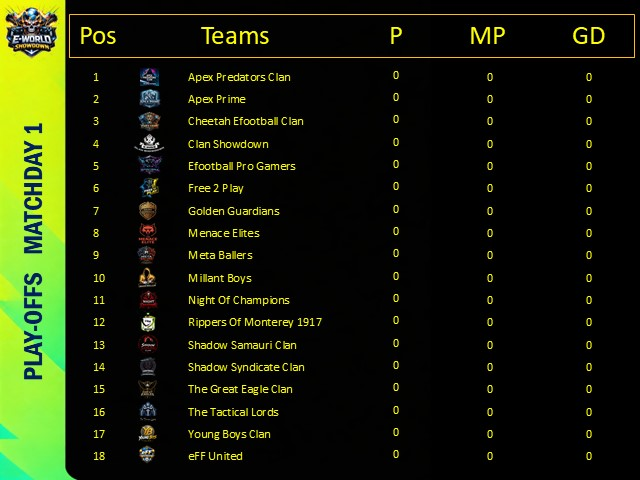
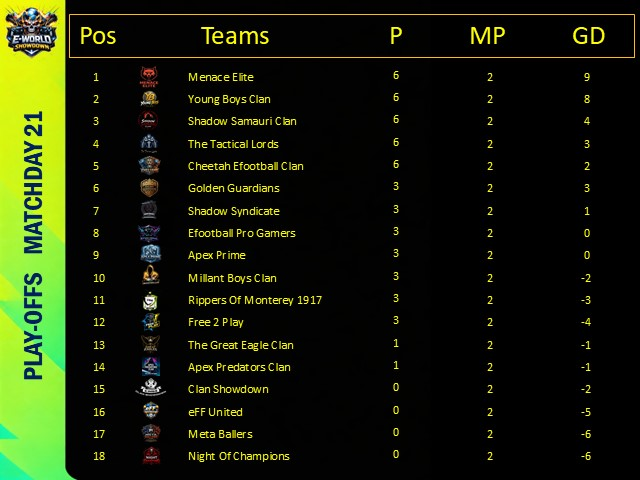
Fixtures update

diff --git a/index.html b/index.html
@@ -313,6 +313,9 @@
         
         <div class="cardBx" id="hallOfFameCarousel">
             
+
+        <!--E-World Showdown Season 1-->
+
             <div class="card" data-item="clan">
                 <img src="images/Hall Of Fame/Nocturnal Terror Tribe.jpg" width="600px">
                 <div class="content">
@@ -493,6 +496,10 @@
                 </div>
             </div>
 
+
+
+            <!--E-World ECL October 2025-->
+
             <div class="card" data-item="clan">
                 <img src="images/Hall Of Fame/Super League Gamers.jpg" width="600px">
                 <div class="content">
@@ -612,6 +619,10 @@
                     </div>
                 </div>
             </div>
+
+            
+
+            <!--E-World ECL July 2025-->
 
             <div class="card" data-item="clan">
                 <img src="images/Hall Of Fame/Super League Gamers.jpg" width="600px">
@@ -733,6 +744,10 @@
                 </div>
             </div>
 
+
+
+            <!--E-World June 2025-->
+
             <div class="card" data-item="clan">                
                 <img src="images/Hall Of Fame/Wicked Souls.png" width="600px">
                 <div class="content">
@@ -832,6 +847,10 @@
                     </div>
                 </div>
             </div>
+
+
+            
+            <!--E-World ECL May 2025--> 
 
             <div class="card" data-item="clan">
                 <img src="images/Hall Of Fame/Legendary Gamers Clan.jpg" width="600px">
@@ -953,6 +972,10 @@
                 </div>
             </div>
 
+
+
+            <!--E-World ECL XMAS 2024-->
+
         <div class="card" data-item="clan">
             <img src="images/Hall Of Fame/ShSt.jpg" width="600px">
                 <div class="content">
@@ -1072,6 +1095,10 @@
                     </div>
                 </div>
             </div>
+
+
+
+            <!--E-World ECL June 2024-->
 
             <div class="card" data-item="clan">
                 <img src="images/Hall Of Fame/Super League Gamers.jpg" width="600px">